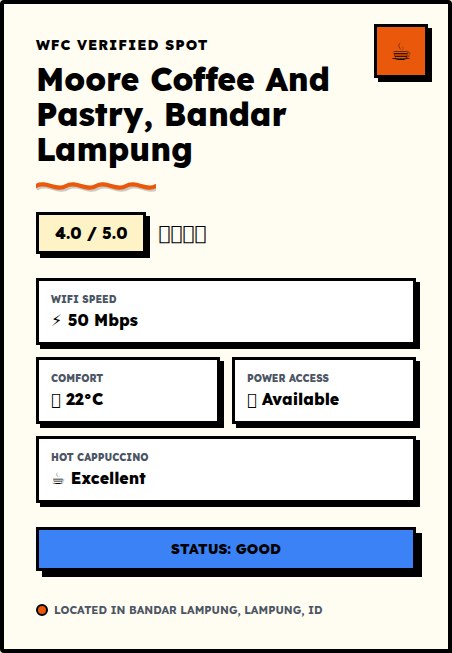
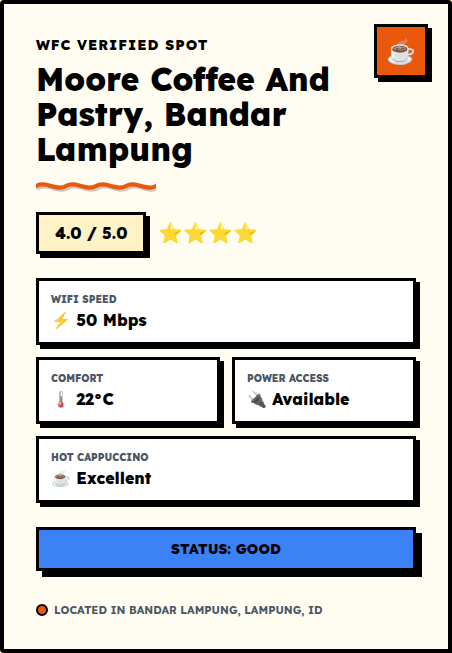
style: ensure WFC badge has intact emojis by adding Noto Color Emoji font fallback

diff --git a/reviews/moore-coffee-and-pastry--bandar-lampung/badge.html b/reviews/moore-coffee-and-pastry--bandar-lampung/badge.html
@@ -4,7 +4,7 @@
     <meta charset="UTF-8">
     <title>Moore Coffee And Pastry, Bandar Lampung - WFC Badge</title>
     <style>
-        @import url('https://fonts.googleapis.com/css2?family=Lexend:wght@400;700;800&display=swap');
+        @import url('https://fonts.googleapis.com/css2?family=Lexend:wght@400;700;800&family=Noto+Color+Emoji&display=swap');
 
         body {
             margin: 0;
@@ -16,7 +16,11 @@
             background-color: #fef3c7;
             background-image: radial-gradient(#d1d5db 1px, transparent 1px);
             background-size: 20px 20px;
-            font-family: 'Lexend', sans-serif;
+            font-family: 'Lexend', 'Noto Color Emoji', 'Apple Color Emoji', 'Segoe UI Emoji', 'Segoe UI Symbol', 'Noto Emoji', sans-serif;
+        }
+
+        .icon-box, .rating-container div, .metric .value {
+            font-family: 'Lexend', 'Noto Color Emoji', 'Apple Color Emoji', 'Segoe UI Emoji', 'Segoe UI Symbol', 'Noto Emoji', sans-serif;
         }
 
         .badge {
